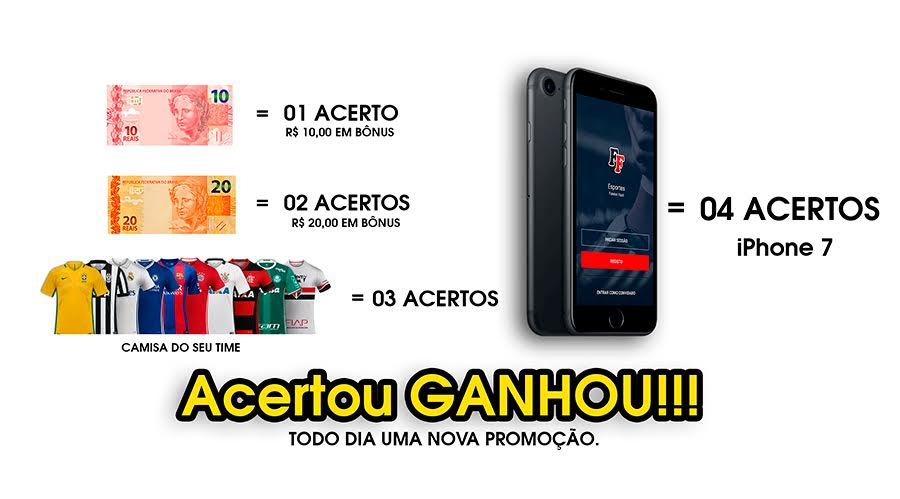
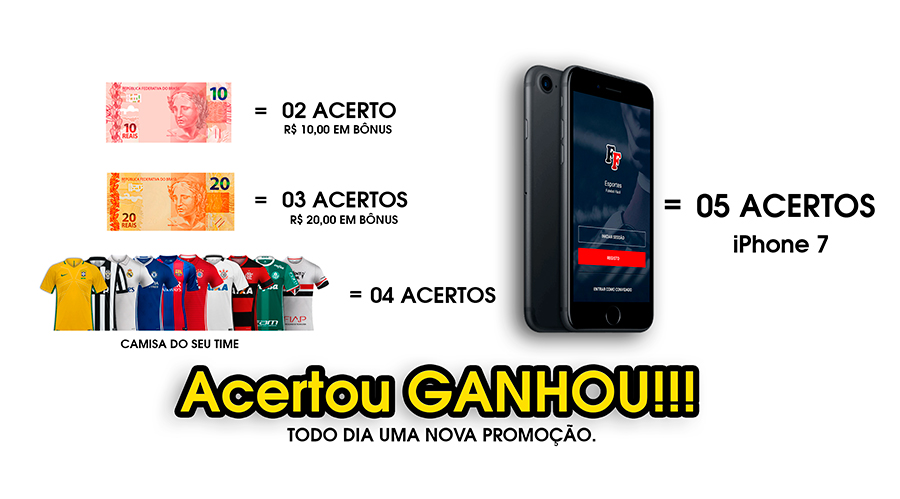
improvements

Changed region(s): [[0.0311, 0.1202, 0.9956, 0.9018], [0.0933, 0.3307, 0.4667, 0.481], [0.0933, 0.1503, 0.4667, 0.3006]]

diff --git a/app/Domains/Bonus/BonusRepository.php b/app/Domains/Bonus/BonusRepository.php
@@ -67,16 +67,16 @@ class BonusRepository extends BaseRepository
     public function bonus($count)
     {
         switch ($count) {
-            case 1:
+            case 2:
                 return 10.00;
                 break;
-            case 2:
+            case 3:
                 return 20.00;
                 break;
-            case 3:
+            case 4:
                 return 'Camisa';
                 break;
-            case 4:
+            case 5:
                 return 'iPhone';
                 break;
         }
